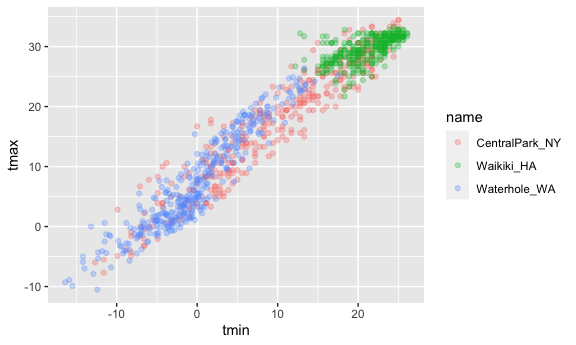
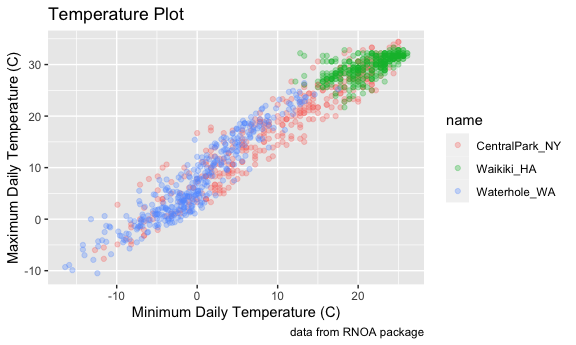
scales

diff --git a/viz_part1.md b/viz_part1.md
@@ -17,6 +17,7 @@ library(tidyverse)
     ## x dplyr::lag()    masks stats::lag()
 
 ``` r
+library(patchwork)
 knitr::opts_chunk$set(
   fig.width = 6,
   fig.asp = 0.6,
@@ -101,6 +102,7 @@ weather_df %>%
     ## Warning: Removed 3 rows containing missing values (geom_point).
 
 <img src="viz_part1_files/figure-gfm/unnamed-chunk-4-1.png" width="90%" />
+\#Remember this plot
 
 ``` r
 weather_df %>% 
@@ -111,13 +113,49 @@ weather_df %>%
     ## Warning: Removed 15 rows containing missing values (geom_point).
 
 <img src="viz_part1_files/figure-gfm/unnamed-chunk-5-1.png" width="90%" />
+\#Labels
 
 ``` r
 weather_df %>% 
   ggplot(aes(x=tmin, y=tmax, color = name))+
-  geom_point(alpha = 0.3)
+  geom_point(alpha = 0.3) +
+  labs(
+    title = "Temperature Plot",
+    x = "Minimum Daily Temperature (C)",
+    y = "Maximum Daily Temperature (C)",
+    caption = "data from RNOA package"
+  )
 ```
 
     ## Warning: Removed 15 rows containing missing values (geom_point).
 
 <img src="viz_part1_files/figure-gfm/unnamed-chunk-6-1.png" width="90%" />
+
+\#Scales
+
+``` r
+weather_df %>% 
+  ggplot(aes(x=tmin, y=tmax, color = name))+
+  geom_point(alpha = 0.3) +
+  labs(
+    title = "Temperature Plot",
+    x = "Minimum Daily Temperature (C)",
+    y = "Maximum Daily Temperature (C)",
+    caption = "data from RNOA package"
+  ) + 
+  scale_x_continuous(
+    breaks = c(-15, 0, 15),
+    labels = c("-15 º C", "0", "15")
+  ) +
+  scale_y_continuous(
+    trans = "sqrt"
+  )
+```
+
+    ## Warning in self$trans$transform(x): NaNs produced
+
+    ## Warning: Transformation introduced infinite values in continuous y-axis
+
+    ## Warning: Removed 90 rows containing missing values (geom_point).
+
+<img src="viz_part1_files/figure-gfm/unnamed-chunk-7-1.png" width="90%" />
